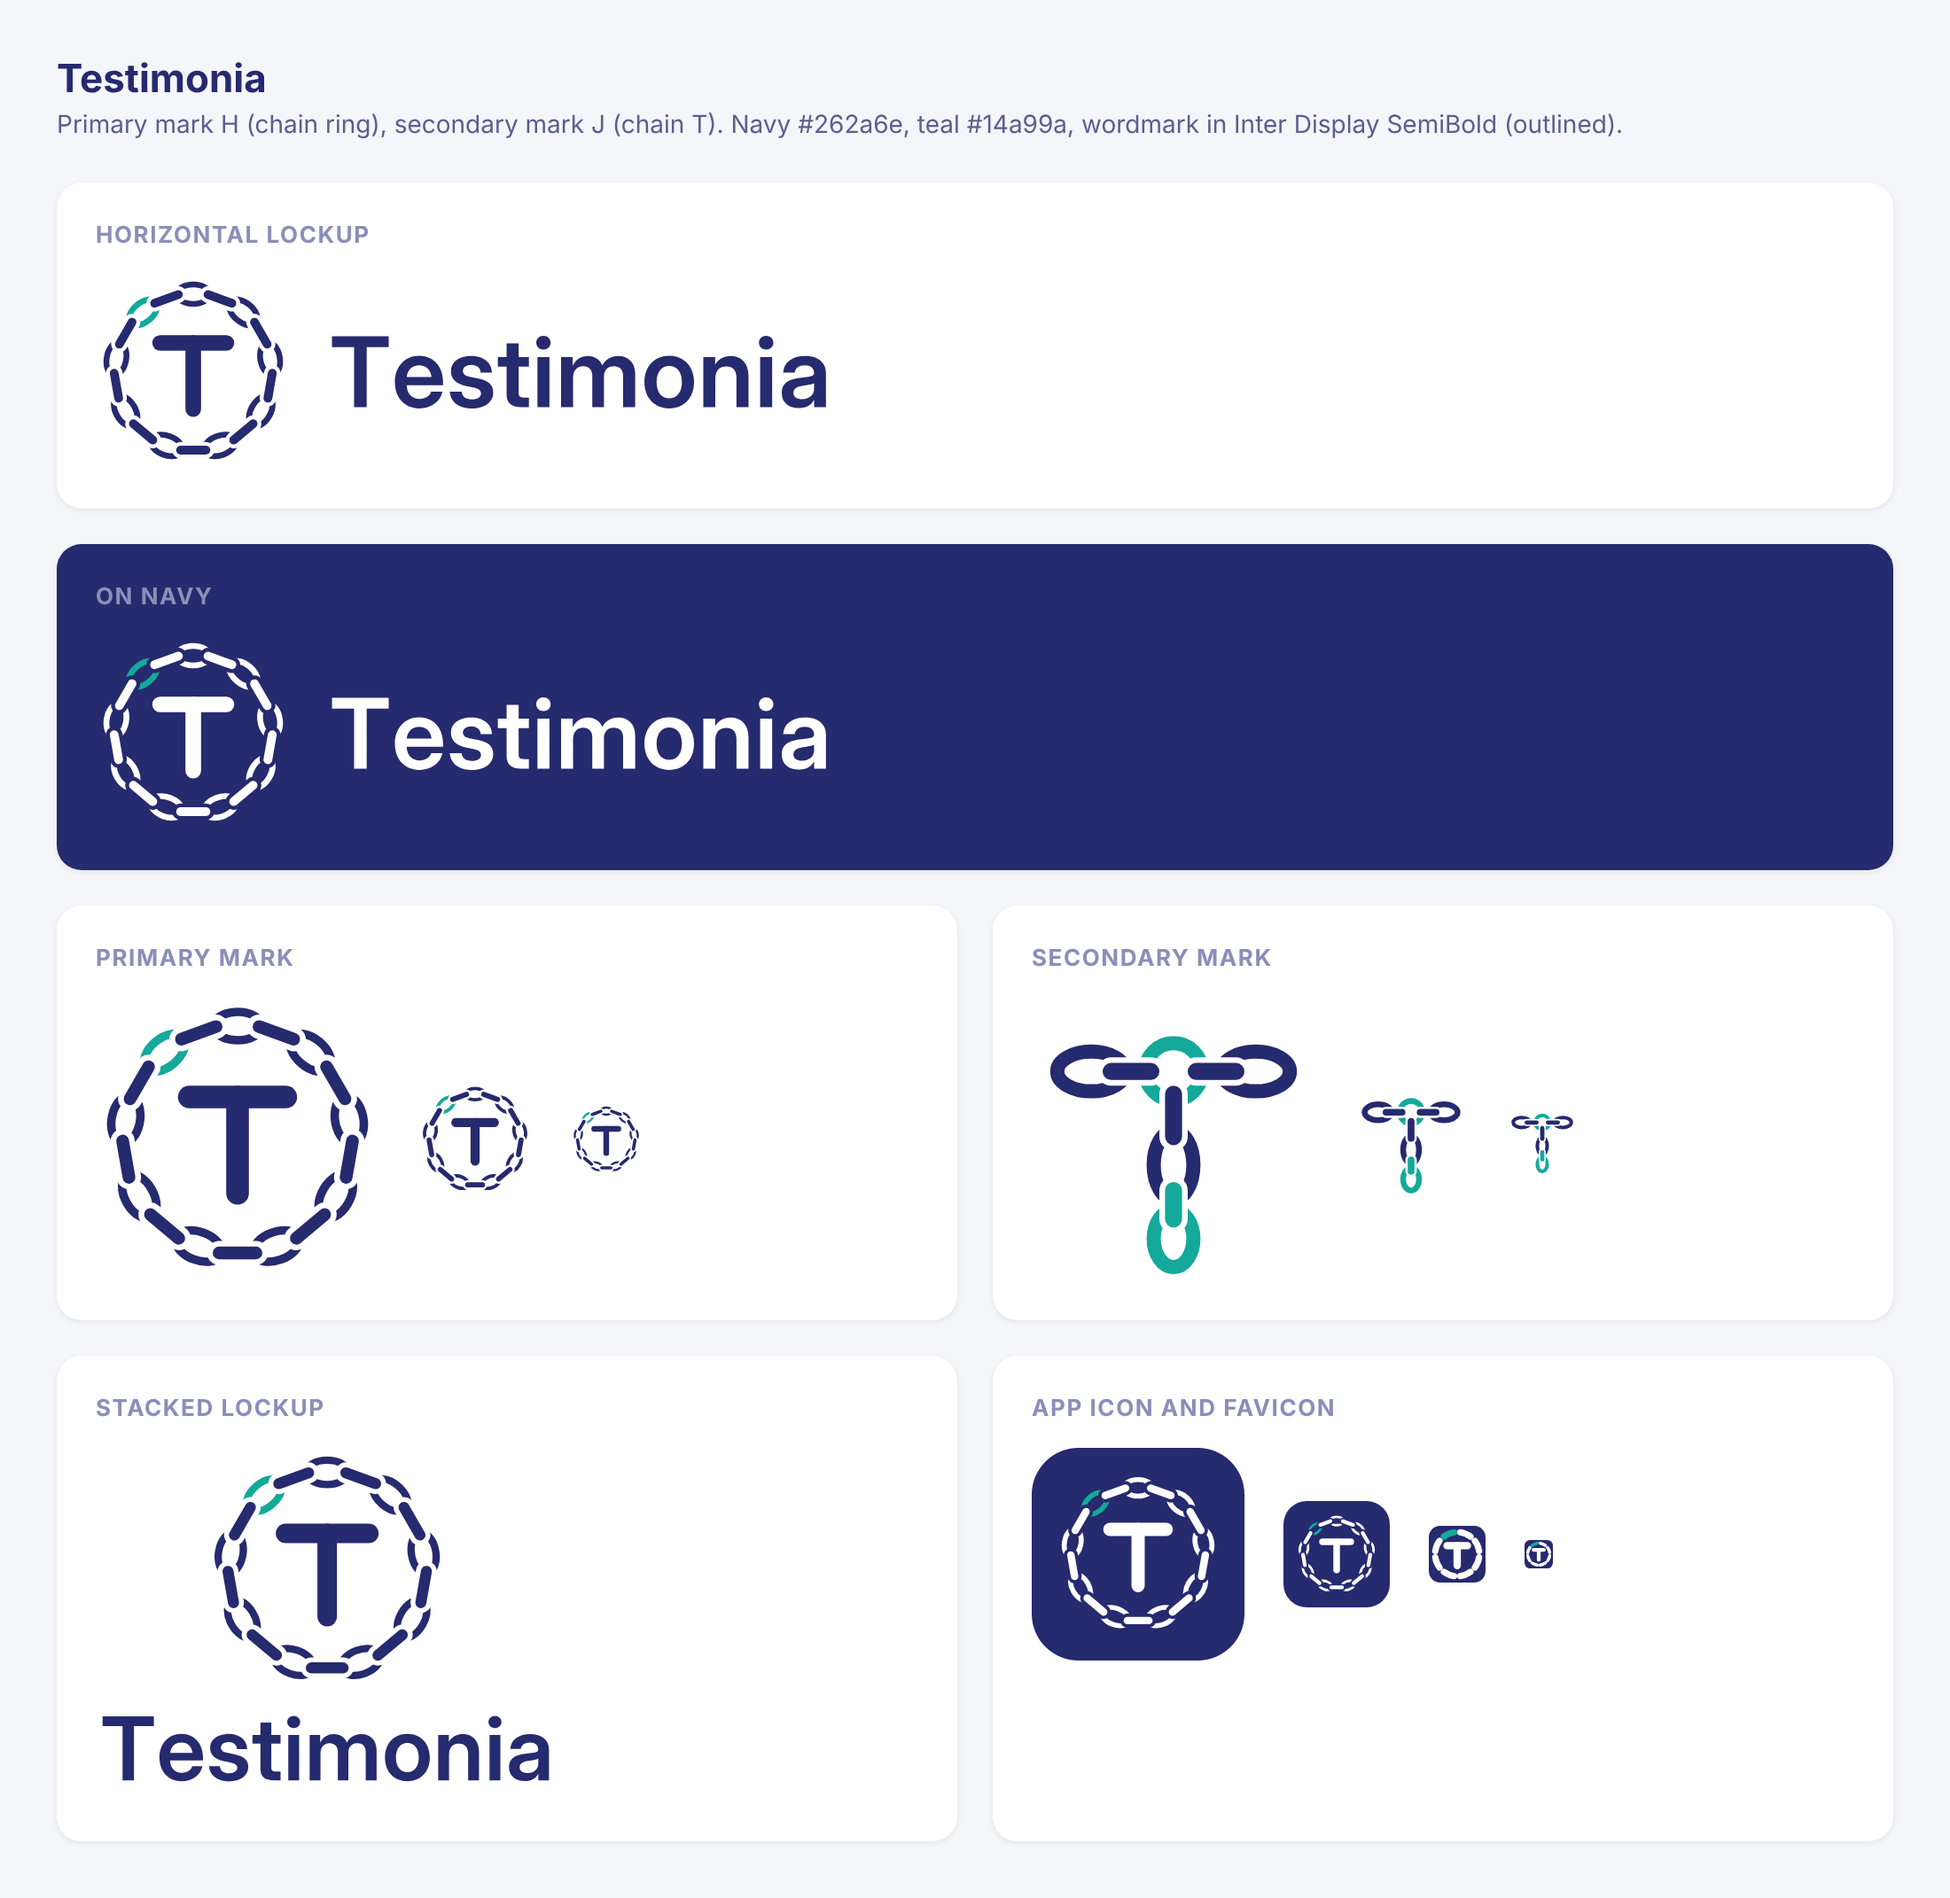
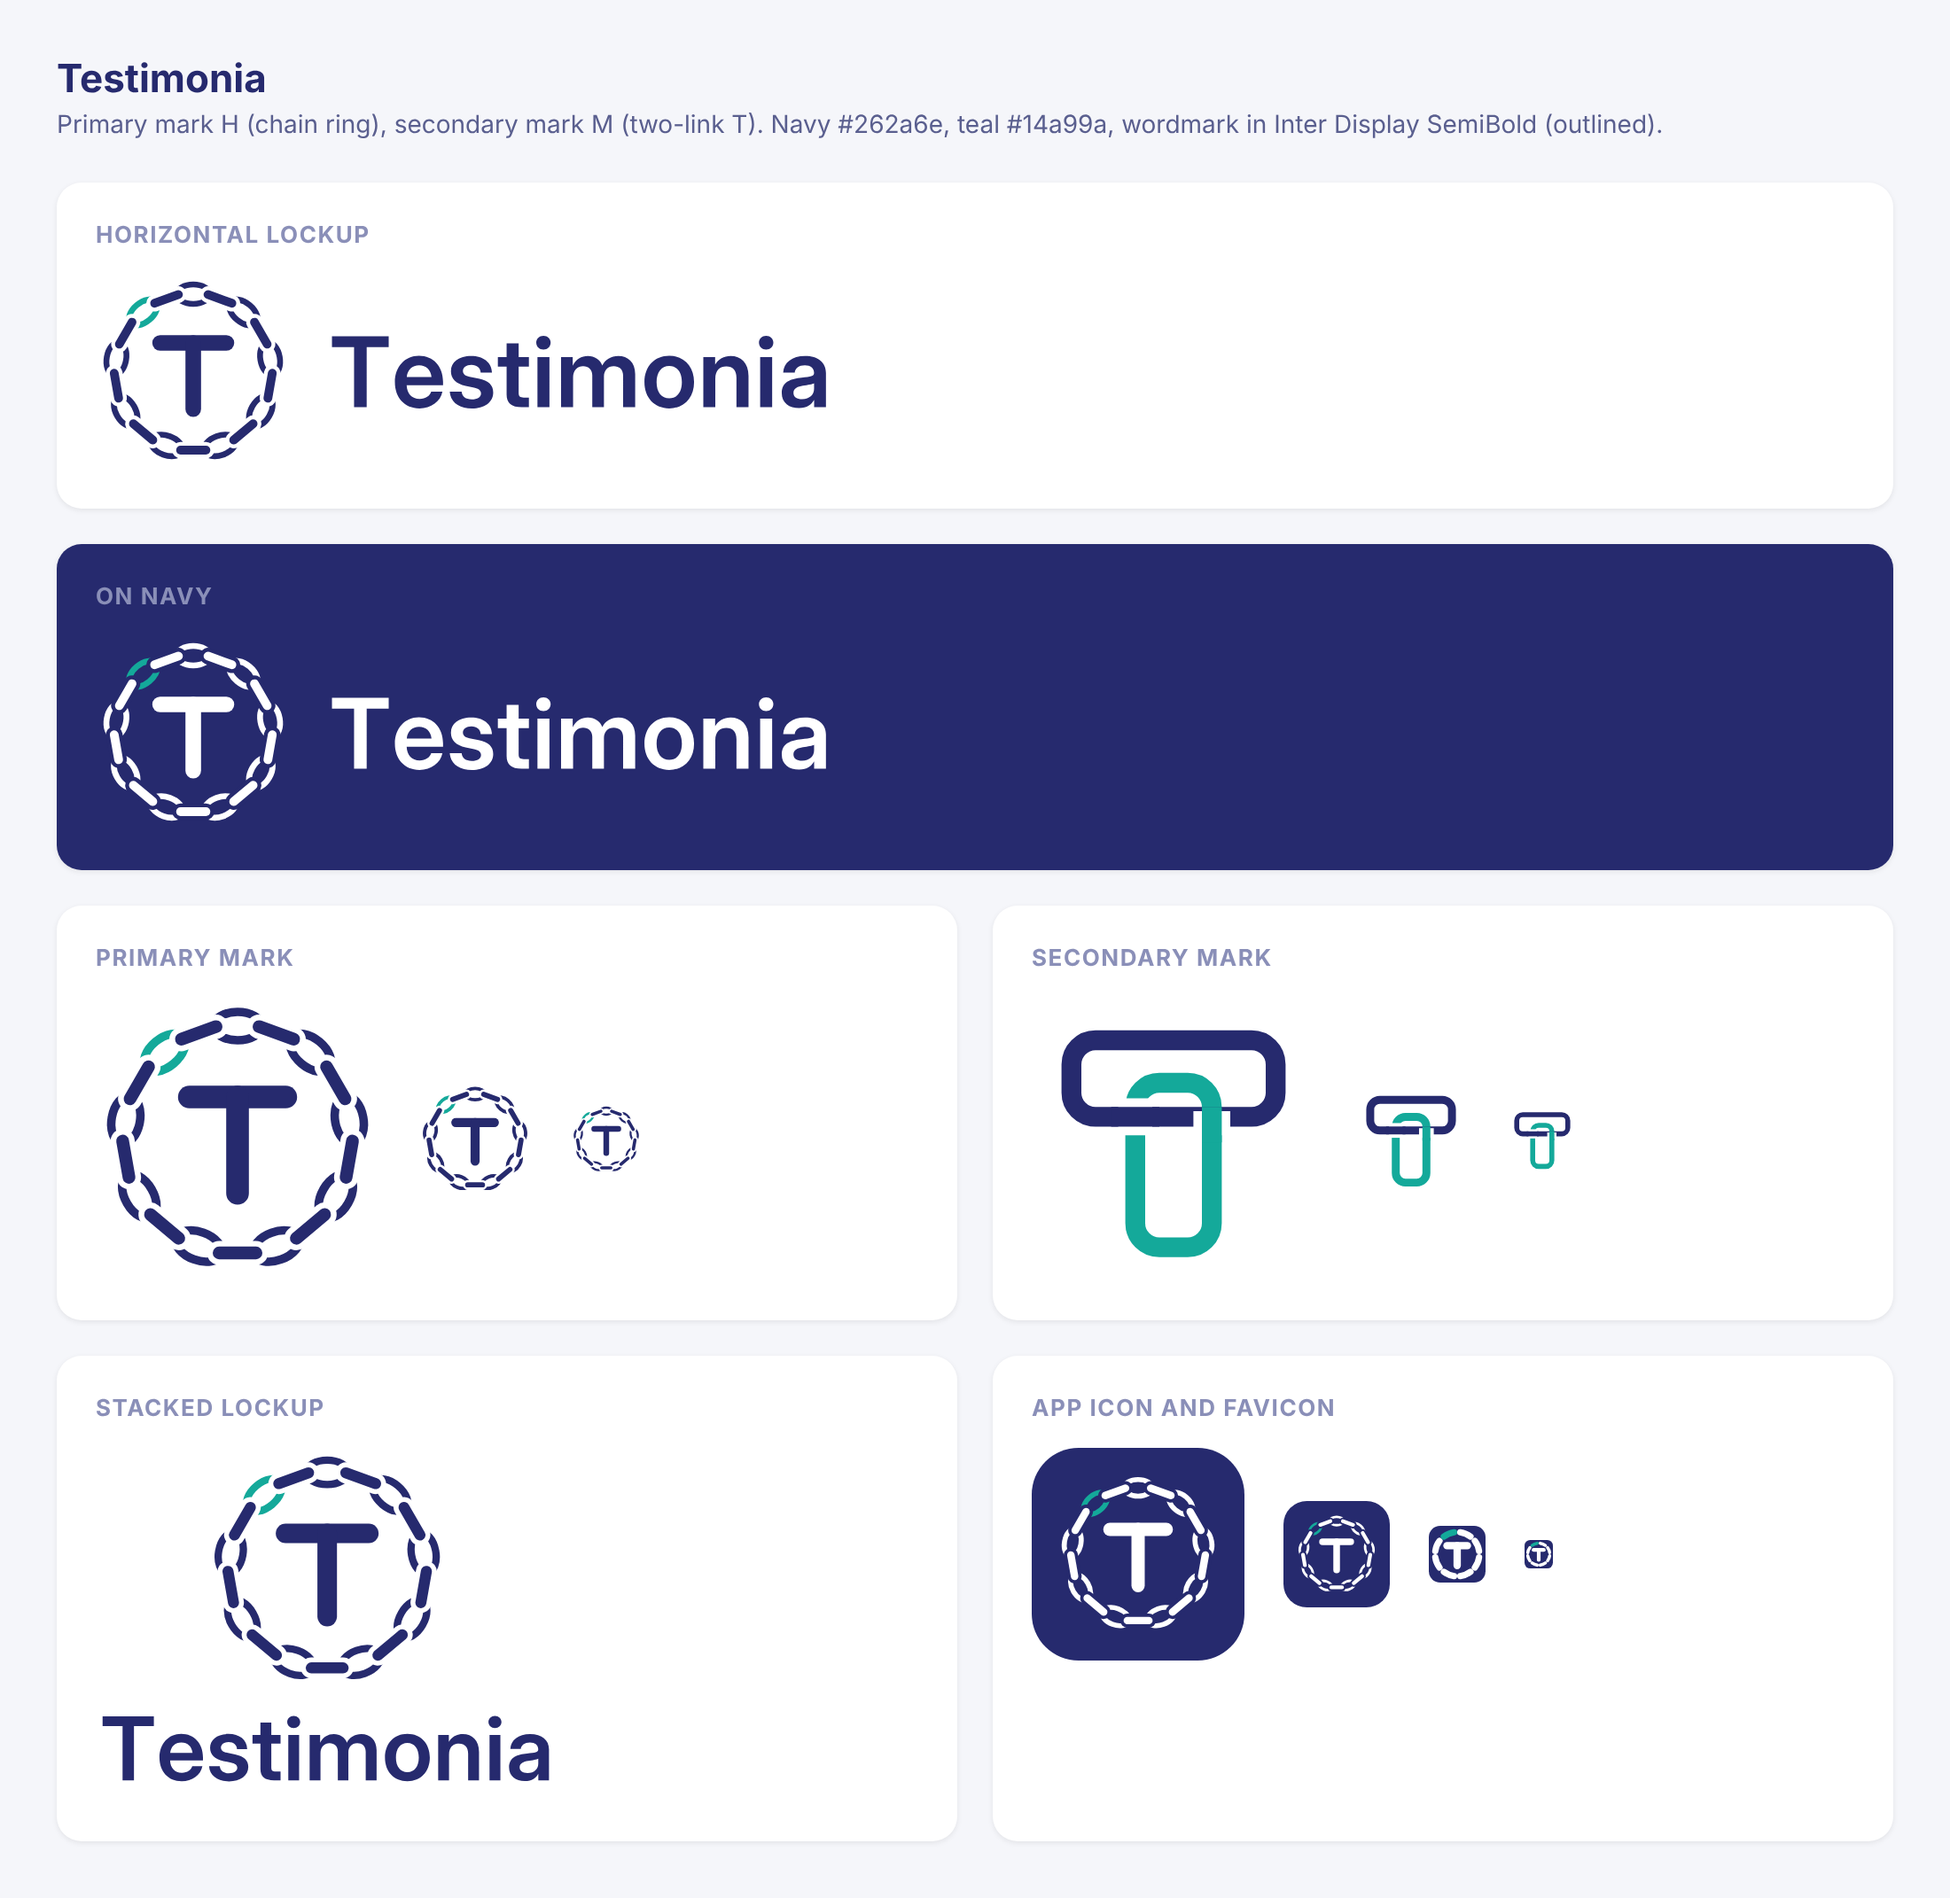
attest: secondary mark is now the two-link T with rounded-rectangle links
Claude-Session: https://claude.ai/code/session_01DpDX5S5RvBJq1Hjz4XCTft

diff --git a/attest/brand/final/sheet.html b/attest/brand/final/sheet.html
@@ -4,7 +4,7 @@ h1{margin:0 0 4px;font-size:22px}.sub{margin:0 0 24px;color:#5a5f8f;font-size:14
 .grid{display:grid;grid-template-columns:1fr 1fr;gap:20px}.card{background:#fff;border-radius:14px;padding:22px;box-shadow:0 1px 3px rgba(0,0,0,.08)}
 .dark{background:#262a6e}.card h2{margin:0 0 14px;font-size:13px;text-transform:uppercase;letter-spacing:.06em;color:#8a8fb8}
 .wide{grid-column:span 2}.row{display:flex;gap:22px;align-items:center;flex-wrap:wrap}img{display:block}
-</style></head><body><h1>Testimonia</h1><p class="sub">Primary mark H (chain ring), secondary mark J (chain T). Navy #262a6e, teal #14a99a, wordmark in Inter Display SemiBold (outlined).</p>
+</style></head><body><h1>Testimonia</h1><p class="sub">Primary mark H (chain ring), secondary mark M (two-link T). Navy #262a6e, teal #14a99a, wordmark in Inter Display SemiBold (outlined).</p>
 <div class="grid">
 <div class="card wide"><h2>Horizontal lockup</h2><img src="testimonia-lockup.svg" height="110"></div>
 <div class="card wide dark"><h2>On navy</h2><img src="testimonia-lockup-white.svg" height="110"></div>

diff --git a/attest/brand/make-square-t.py b/attest/brand/make-square-t.py
@@ -1,0 +1,34 @@
+# Mark M: the two-link T from D, drawn with rounded-rectangle links like the ones in H's
+# ring instead of fully rounded (paperclip) ends. python3 make-square-t.py
+import os
+NAVY, TEAL, WHITE = "#262a6e", "#14a99a", "#ffffff"
+SW = 14
+BAR = (28, 30, 144, 54, 17)    # x, y, w, h, corner radius: the top link
+STEM = (73, 60, 54, 116, 17)   # the hanging link
+
+def rect(r, color, w):
+    x, y, ww, h, rx = r
+    return f'<rect x="{x}" y="{y}" width="{ww}" height="{h}" rx="{rx}" fill="none" stroke="{color}" stroke-width="{w}"/>'
+
+def square_t(fg, ac, bg, uid=None):
+    bx, by, bw, bh, brx = BAR
+    sx, sy, sw, sh, srx = STEM
+    yb = by + bh          # the top link's lower side, where the links cross
+    xl, xr = sx, sx + sw  # the hanging link's two sides
+    gap = SW + 12         # width of the background cut around a crossing
+    seg = lambda d, c, w: f'<path d="{d}" fill="none" stroke="{c}" stroke-width="{w}" stroke-linecap="butt"/>'
+    s = rect(STEM, ac, SW) + rect(BAR, fg, SW)
+    # Left crossing: the top link passes in front, cutting a gap in the hanging link.
+    # The coloured redraw runs a little past the cut at both ends, so no hairline shows.
+    s += seg(f'M{xl - 12} {yb} H{xl + 12}', bg, gap) + seg(f'M{xl - 17} {yb} H{xl + 17}', fg, SW)
+    # Right crossing: the hanging link passes in front, cutting a gap in the top link.
+    s += seg(f'M{xr} {sy + srx + 3} V{yb + 13}', bg, gap) + seg(f'M{xr} {sy + srx} V{yb + 18}', ac, SW)
+    return s
+
+def svg(title, body):
+    return f'<svg xmlns="http://www.w3.org/2000/svg" viewBox="0 0 200 200"><title>{title}</title>{body}</svg>\n'
+
+here = os.path.dirname(os.path.abspath(__file__))
+for suf, (fg, ac, bg) in {'': (NAVY, TEAL, WHITE), '-white': (WHITE, TEAL, NAVY)}.items():
+    with open(os.path.join(here, f'm-square-link-t{suf}.svg'), 'w') as f:
+        f.write(svg('Testimonia: square-link T', square_t(fg, ac, bg, 'w' if suf else 'n')))

diff --git a/attest/brand/make-final.py b/attest/brand/make-final.py
@@ -24,8 +24,14 @@ def mark_h(fg, ac, bg):
     return chain.chain_ring(fg, ac, bg) + chain.solid_t(fg)
 
 
+spec_m = importlib.util.spec_from_file_location('square', os.path.join(here, 'make-square-t.py'))
+square = importlib.util.module_from_spec(spec_m)
+spec_m.loader.exec_module(square)
+
+
 def mark_j(fg, ac, bg):
-    return chain.chain_t(fg, ac, bg)
+    # Secondary mark: the two-link T with rounded-rectangle links (M).
+    return square.square_t(fg, ac, bg)
 
 
 def wordmark_path(text, size, tracking=0.01):

diff --git a/attest/brand/README.md b/attest/brand/README.md
@@ -11,15 +11,11 @@ and 42 (online services) before registering or using it commercially.
 | | File | Use |
 |---|---|---|
 | **Primary: chain ring (H)** | `final/testimonia-mark.svg` | Everywhere by default. A ring of chain links, one in teal for the newest record, around the T. |
-| **Secondary: chain T (J)** | `final/testimonia-chain-t.svg` | Where the T stands alone: avatars, merchandise, large headers. |
+| **Secondary: two-link T (M)** | `final/testimonia-chain-t.svg` | Where the T stands alone: avatars, merchandise, large headers. Two rounded-rectangle links, like the ring's, hooked into a T. |
 
 Each has a `-white` version for dark backgrounds.
 
-### Option under review: link T (K, L)
-
-`k-link-t.svg` is a T made of two of H's oval links, one across the top and one hanging
-down, hooked together. `l-chain-ring-link-t.svg` puts it inside H's chain ring.
-`link-t-options.png` shows both. Generated by `make-link-t.py`.
+The secondary mark is drawn by `make-square-t.py`; other T options (J, K, L) are kept for reference.
 
 ## Lockups and icons (`final/`)
 
